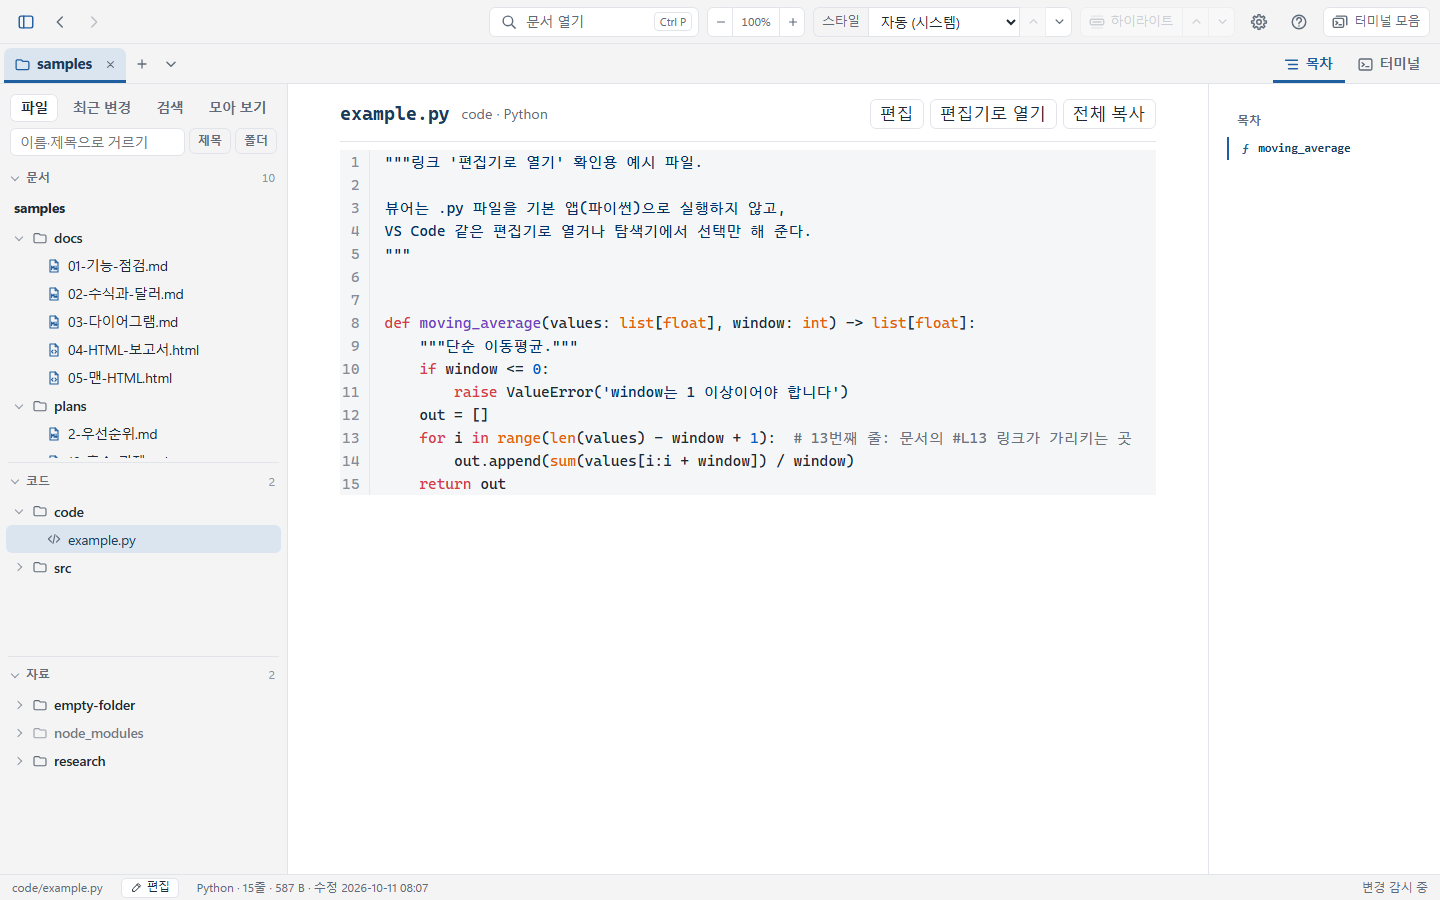
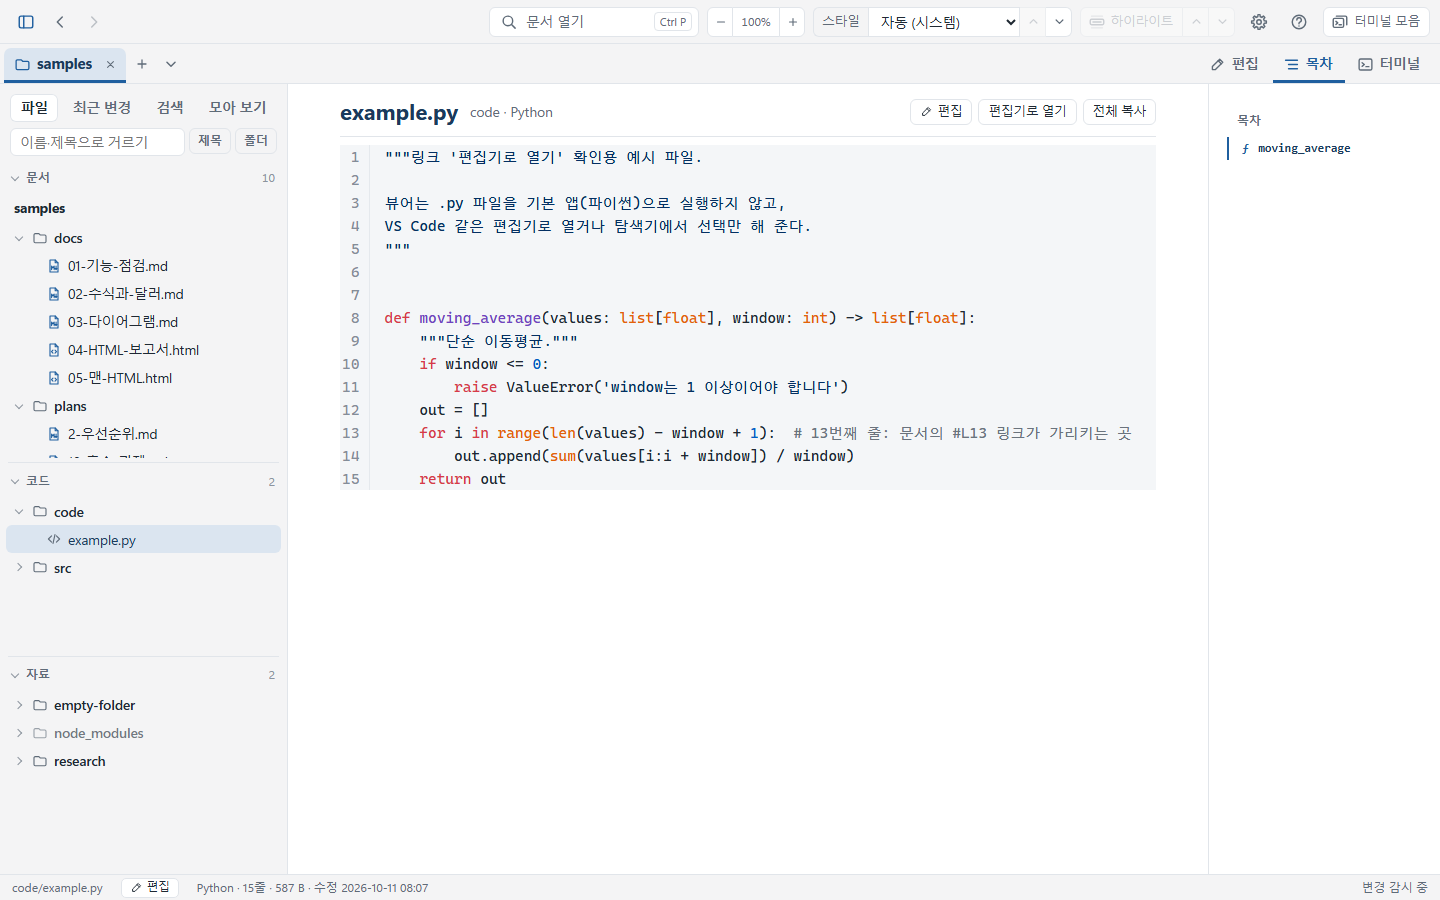
코드 화면 머리줄의 글꼴을 문서 화면에 맞춤 (v0.26.1)
- 파일 이름은 그 스타일의 문서 제목 글꼴(--md-heading-font)로 — 전에는 코드 글꼴
- '편집'·'편집기로 열기'·'전체 복사'와 폴더·언어는 앱 글꼴로 — 본문 글꼴(잡지·논문 등은 명조)을 따르던 것.
  '편집'에 상태줄 '편집'처럼 연필, 문서가 없을 때 안내의 버튼도 앱 글꼴
- README 의 코드 화면 그림 다시 찍기

diff --git a/web/css/app.css b/web/css/app.css
@@ -530,6 +530,12 @@ kbd { font: 11px/1 var(--ui-font); padding: 3px 5px; border: 1px solid var(--ui-
 }
 .st-edit:hover { border-color: var(--ui-accent); color: var(--ui-accent); }
 .st-edit svg { width: 13px; height: 13px; fill: none; stroke: currentColor; stroke-width: 1.5; stroke-linejoin: round; }
+/* 본문 안의 앱 버튼 — 코드 화면 머리줄, 문서가 없을 때의 안내: 본문 글꼴(명조일 수 있다)이 아니라 앱 글꼴로.
+   코드 화면의 '편집'은 상태줄의 '편집'과 같은 모양 (연필, 마우스를 올리면 강조색) */
+.code-view .cv-tools .text-btn, .md-body .doc-missing button { font-family: var(--ui-font); }
+.code-view .cv-tools .text-btn { height: 26px; padding: 0 9px; gap: 4px; font-size: 12.5px; }
+.code-view .cv-edit:hover { border-color: var(--ui-accent); color: var(--ui-accent); }
+.code-view .cv-edit svg { width: 13px; height: 13px; stroke-width: 1.5; }
 
 /* ---- 편집 모드 (editor.js, D54): 칸 위를 덮는 편집 상자 — CodeMirror 5. 색은 문서 스타일(--md-*)에서 ---- */
 .lec-editor { position: absolute; inset: 0; z-index: 6; display: flex; flex-direction: column; background: var(--md-bg, #fff); }

diff --git a/web/themes/base.css b/web/themes/base.css
@@ -53,8 +53,9 @@
   position: sticky; top: 0; z-index: 2; display: flex; align-items: center; flex-wrap: wrap; gap: 4px 12px;
   margin: 0 0 8px; padding: 14px 0 10px; border-bottom: 1px solid var(--md-border); background: var(--md-bg);
 }
-.code-view .cv-title { font-family: var(--md-mono); font-size: calc(17px * var(--md-scale, 1)); font-weight: 700; color: var(--md-heading); }
-.code-view .cv-sub { color: var(--md-muted); font-size: calc(13px * var(--md-scale, 1)); }
+/* 파일 이름은 문서 제목처럼 스타일의 제목 글꼴로, 그 옆 정보는 앱 글꼴로 (본문 글꼴이 명조인 스타일에서도 문서 화면과 같게) */
+.code-view .cv-title { font-family: var(--md-heading-font); font-size: 1.3em; font-weight: 700; line-height: 1.25; letter-spacing: -.01em; color: var(--md-heading); }
+.code-view .cv-sub { font-family: var(--ui-font, sans-serif); color: var(--md-muted); font-size: calc(12.5px * var(--md-scale, 1)); }
 .code-view .cv-tools { margin-left: auto; display: flex; gap: 6px; }
 .code-view .cv-line {
   display: grid; grid-template-columns: calc((var(--cv-digits, 3) + 1.5) * 1ch) minmax(0, 1fr); column-gap: 14px;

diff --git a/web/js/codeview.js b/web/js/codeview.js
@@ -98,7 +98,8 @@ export async function showCode(pane, path, { line, scrollTop } = {}) {
   view.style.setProperty('--cv-digits', String(String(lines.length).length));
   view.innerHTML = `<header class="cv-head"><div class="cv-title">${esc(basename(path))}</div>`
     + `<div class="cv-sub">${dirname(path) ? `${esc(dirname(path))} · ` : ''}${esc(lang.name)}</div>`
-    + `<div class="cv-tools"><button type="button" class="text-btn cv-edit" title="${t('여기서 고치기 — 편집 모드 (Ctrl+E)')}">${t('편집')}</button>`
+    + `<div class="cv-tools"><button type="button" class="text-btn cv-edit" title="${t('여기서 고치기 — 편집 모드 (Ctrl+E)')}">`
+    + `<svg aria-hidden="true"><use href="#i-edit"/></svg>${t('편집')}</button>`
     + `<button type="button" class="text-btn cv-editor" title="${t('편집기로 열기 (코드 목록에서 두 번 누르기)')}">${t('편집기로 열기')}</button>`
     + `<button type="button" class="text-btn cv-copy">${t('전체 복사')}</button></div></header>`
     + lines.map((l, i) => `<div class="cv-line" data-line="${i + 1}"><span class="cv-text">${l}</span></div>`).join('');

diff --git a/tools/ui_smoke.py b/tools/ui_smoke.py
@@ -1201,6 +1201,18 @@ def run(headed: bool) -> None:
             check(by_path and c1['title'] == 'example.py' and c1['lines'] >= 15 and c1['status'].startswith('Python')
                   and 'ƒmoving_average' in c1['toc'] and c1['active'] == 'code/example.py' and not c1['treeActive'] and c1['title2'].startswith('example.py'),
                   f"문서 속 코드 경로(`code/example.py:13`)를 누르면 읽기 화면의 그 줄로 — 줄 번호·언어 색, 오른쪽 목차(함수), '코드' 목록에서 강조 ({c1})")
+            fonts = page.evaluate("""() => {
+              const fam = (el) => el && getComputedStyle(el).fontFamily;
+              const probe = document.createElement('h1');   // 이 스타일의 문서 제목 글꼴
+              probe.style.position = 'absolute';
+              document.querySelector('#lec-view').append(probe);
+              const out = { title: fam(document.querySelector('#lec-view .cv-title')), heading: fam(probe),
+                edit: fam(document.querySelector('#lec-view .cv-edit')), status: fam(document.querySelector('#lec-st-edit')),
+                icon: !!document.querySelector('#lec-view .cv-edit use[href="#i-edit"]') };
+              probe.remove();
+              return out; }""")
+            check(fonts['title'] == fonts['heading'] and fonts['edit'] == fonts['status'] and fonts['icon'],
+                  f"코드 화면의 파일 이름은 문서 제목과 같은 글꼴, '편집' 버튼은 상태줄의 '편집'과 같은 글꼴·연필 ({fonts})")
             page.keyboard.press('Alt+ArrowLeft')
             back_doc = wait_until(page, "document.querySelector('#lec-view h1')?.textContent === '경로 표기 확인'")
             doc_title = page.evaluate('document.title')   # 창 제목: 파일 이름 [문서 제목]

diff --git a/lectern/__init__.py b/lectern/__init__.py
@@ -3,4 +3,4 @@
 이름은 독서대(lectern)에서 왔다. Markdown 과 HTML 문서를 본다 (HTML 은 스크립트 없이 보기만, D27).
 """
 
-__version__ = '0.26.0'
+__version__ = '0.26.1'

diff --git a/CLAUDE.md b/CLAUDE.md
@@ -4,7 +4,7 @@ Lectern(렉턴, 독서대)은 Windows용 로컬 문서 뷰어다. Claude Code·C
 Markdown(`.md`)과 HTML(`.html`) 문서를 본다. HTML은 문서로 보기만 하고 스크립트는 돌리지 않는다 (D27). 문서 형식은 서버가 `scanner.DOC_TYPES`, 화면이 `util.js` 의 `isMd`·`isHtml` 로 정한다 (형식을 더하면 둘 다).
 구성: Python(pywebview 창 + Flask 로컬 서버) + 빌드 단계 없는 순수 JS(ES modules).
 
-현재 버전 0.26.0 (v0.26.0 = 편집 모드의 위치 잇기 — 읽던 곳에서 열고 닫으면 편집하던 곳, 편집하는 동안 목차가 커서의 절을 따라오고 목차·모아 보기·검색에서 고르면 편집기가 그 줄로 (md 는 블록, 코드는 줄, html 은 제목 단위 — D55). v0.25.2 = 창 제목 '파일 이름 [문서 제목]', 탭 막대 오른쪽 끝 [편집] [목차] [터미널] — [편집]은 편집 모드 켜기/끄기. v0.25.1 = 업무용 전체 점검에서 고친 것 — 편집 모드 저장(내용 hash 로 그사이 바뀜 보기, ReplaceFileW 로 파일 속성 유지, 저장이 안 되면 고친 내용을 임시 파일에 남김, 섞인 줄바꿈은 많은 쪽, 읽기 전용은 고치지 않음), 내 스타일이 숨긴 인터넷 주소 막기와 CSP style-src, 탭 닫기·다시 불러오기 전 묻기 등. v0.25.0 = 편집 모드 — 문서·코드를 그 자리에서 CodeMirror 5 로 고쳐 저장 (상태줄 '편집'·Ctrl+E·우클릭 '여기를 편집'), 그사이 다른 곳에서 바뀌면 물음, 저장하지 않은 것은 닫기 전에 물음. v0.24.0 = 내 스타일 — 설정 폴더 styles\*.css 가 스타일 목록 맨 아래 '내 스타일'에, 고치면 바로 반영, AI 용 설명서 web/help/styles.md 와 설정 창의 'Claude Code용 요청 복사'. v0.23.0 = 터미널 자리 — 오른쪽 / 문서 아래, 자동이면 창이 세로로 길 때 아래 (설정 창·터미널 머리줄 버튼). v0.22.0 = 우클릭 메뉴의 복사 항목 옆 터미널 버튼 — 선택한 글·Claude용 위치·경로를 Enter 없이 터미널에, 여러 줄이면 물음. v0.21.0 = 최근 변경·검색·모아 보기에 코드·자료도 — 최근 변경·검색 위의 '문서'·'코드'·'자료' 버튼, 검색 맨 위에 이름이 맞는 파일, 모아 보기의 '파일 종류'(엑셀·PDF·그림·py·ipynb 등 형식별). v0.20.0 = 제외 폴더(dist·build·node_modules 등)를 사이드바 '자료' 목록에 흐린 접힌 폴더로 — 펼칠 때 안을 읽음. v0.19.1 = 사이드바 파일 탭의 묶음 '파일'을 '자료'로 바꾸고 순서를 문서·코드·자료로. v0.19.0 = 문서와 목차 사이 경계를 끌어 목차 폭 조절, 문서 글자 한 단계 크게(툴바 100% = 예전 110%). v0.18.0 = 영어 화면 — 설정 '언어 · Language'(자동=Windows 표시 언어·한국어·English), 한국어 문장을 열쇠로 하는 사전 t(), 영어 사용설명서·설치 프로그램. v0.17.0 = 사용설명서(F1)와 단축키 표 — 설명서는 사이드바·문서 위를 덮는 읽기 화면(web/help/manual.md), 툴바 '?' 버튼·Ctrl+/ 로 단축키 표. v0.16.0 = 빠른 열기(Ctrl+P)·전체 검색에 코드 — 맞는 문서 먼저, 검색은 '문서'·'코드' 버튼으로 찾을 곳 고르기. v0.15.0 = 코드 읽기 화면 — '코드' 목록에서 한 번 누르면 본문에 줄 번호·언어 색으로, 오른쪽 목차는 클래스·함수·구분 주석, 문서 속 코드 경로는 그 줄로. v0.14.0 = 사이드바 파일 탭의 '문서'·'파일'·'코드' 세 묶음 — 묶음마다 접기, 코드만 탐색기처럼 모아 보기. v0.13.2 = 버튼 자리 — 목차·터미널 버튼은 탭 막대 오른쪽 끝, 터미널 모음은 툴바. v0.13.1 = 화면의 이름·설명 점검 — 툴바 '문서 열기', '박스글'·'인터넷 그림'으로 통일 등. v0.13.0 = 사이드바 '모아 보기' 탭 — 프로젝트(또는 폴더)의 표·그림·박스글·다이어그램·코드·수식을 종류마다 문서별로, 폴더 개요 버튼·폴더 우클릭으로도. v0.12.0 = 터미널 모음 — 탭 막대 오른쪽 끝 버튼·`` Ctrl+Shift+` `` 로 열린 프로젝트들의 터미널을 한 화면에 격자로, 셸에서 띄운 프로그램이 Ctrl+C 로 멈추지 않던 것 고침. v0.11.0 = 목차의 제목 아래에 그 절의 표·그림·박스글·다이어그램·코드·수식, 누르면 그 자리로, 종류 버튼으로 보이고 감추기. v0.10.1 = 터미널 색이 문서 스타일을 따름, 설정 창에서 끄면 늘 어둡게. v0.10.0 = 오른쪽 터미널 — 프로젝트 탭마다 PowerShell 하나를 그 폴더에서, 툴바 버튼·`` Ctrl+` ``. v0.9.1 = 프로젝트 탭 강조 — 크고 굵은 글자, 폴더 아이콘, 선택된 탭 바탕색. v0.9.0 = 사이드바 이름 앞 종류 아이콘, 종류별·폴더 보기 고르기('폴더' 버튼). v0.8.0 = 사이드바 '파일' 목록 — 문서 트리 아래 분리선 너머에 문서가 아닌 파일을 탐색기처럼, 두 번 누르면 열기(실행하지 않음). v0.7.1 = 트리는 파일 이름, 마우스를 올리면 문서 제목. v0.7.0 = 프로젝트 탭 — 폴더마다 탭 하나, 탭을 누르면 트리와 문서가 함께 바뀜, 창은 하나(또 실행하면 떠 있는 창에 탭으로). v0.6.0 의 창 나누기는 걷었다. v0.6.0 = math·latex 코드 블록 수식. v0.5.0 = 글자 크기 −·+ 와 장 하이라이트. v0.4.0 = 스타일 24종과 목록 묶는 방식 3가지. v0.3.2 = 전체 점검 후 수정 — 보안 3건 포함. ROADMAP 2·3·4단계 기능: 바뀐 부분 강조, 전체 검색, 설정 창·마지막 위치, HTML 문서, 절대경로, 사이드바 폭, 찾기 개선, 우클릭 2차, 경로 자동 링크, 인쇄, 트리 캐시, html 글자 바탕·앱 UI가 스타일을 따름). 남은 것은 Windows 실기 점검(2-1). 다음 할 일은 `docs/ROADMAP.md` 의 "다음 단계"에서 고른다.
+현재 버전 0.26.1 (v0.26.1 = 코드 화면 머리줄 — 파일 이름은 문서 제목 글꼴, 버튼은 앱 글꼴(상태줄 '편집'과 같게, 명조 스타일에서도). v0.26.0 = 편집 모드의 위치 잇기 — 읽던 곳에서 열고 닫으면 편집하던 곳, 편집하는 동안 목차가 커서의 절을 따라오고 목차·모아 보기·검색에서 고르면 편집기가 그 줄로 (md 는 블록, 코드는 줄, html 은 제목 단위 — D55). v0.25.2 = 창 제목 '파일 이름 [문서 제목]', 탭 막대 오른쪽 끝 [편집] [목차] [터미널] — [편집]은 편집 모드 켜기/끄기. v0.25.1 = 업무용 전체 점검에서 고친 것 — 편집 모드 저장(내용 hash 로 그사이 바뀜 보기, ReplaceFileW 로 파일 속성 유지, 저장이 안 되면 고친 내용을 임시 파일에 남김, 섞인 줄바꿈은 많은 쪽, 읽기 전용은 고치지 않음), 내 스타일이 숨긴 인터넷 주소 막기와 CSP style-src, 탭 닫기·다시 불러오기 전 묻기 등. v0.25.0 = 편집 모드 — 문서·코드를 그 자리에서 CodeMirror 5 로 고쳐 저장 (상태줄 '편집'·Ctrl+E·우클릭 '여기를 편집'), 그사이 다른 곳에서 바뀌면 물음, 저장하지 않은 것은 닫기 전에 물음. v0.24.0 = 내 스타일 — 설정 폴더 styles\*.css 가 스타일 목록 맨 아래 '내 스타일'에, 고치면 바로 반영, AI 용 설명서 web/help/styles.md 와 설정 창의 'Claude Code용 요청 복사'. v0.23.0 = 터미널 자리 — 오른쪽 / 문서 아래, 자동이면 창이 세로로 길 때 아래 (설정 창·터미널 머리줄 버튼). v0.22.0 = 우클릭 메뉴의 복사 항목 옆 터미널 버튼 — 선택한 글·Claude용 위치·경로를 Enter 없이 터미널에, 여러 줄이면 물음. v0.21.0 = 최근 변경·검색·모아 보기에 코드·자료도 — 최근 변경·검색 위의 '문서'·'코드'·'자료' 버튼, 검색 맨 위에 이름이 맞는 파일, 모아 보기의 '파일 종류'(엑셀·PDF·그림·py·ipynb 등 형식별). v0.20.0 = 제외 폴더(dist·build·node_modules 등)를 사이드바 '자료' 목록에 흐린 접힌 폴더로 — 펼칠 때 안을 읽음. v0.19.1 = 사이드바 파일 탭의 묶음 '파일'을 '자료'로 바꾸고 순서를 문서·코드·자료로. v0.19.0 = 문서와 목차 사이 경계를 끌어 목차 폭 조절, 문서 글자 한 단계 크게(툴바 100% = 예전 110%). v0.18.0 = 영어 화면 — 설정 '언어 · Language'(자동=Windows 표시 언어·한국어·English), 한국어 문장을 열쇠로 하는 사전 t(), 영어 사용설명서·설치 프로그램. v0.17.0 = 사용설명서(F1)와 단축키 표 — 설명서는 사이드바·문서 위를 덮는 읽기 화면(web/help/manual.md), 툴바 '?' 버튼·Ctrl+/ 로 단축키 표. v0.16.0 = 빠른 열기(Ctrl+P)·전체 검색에 코드 — 맞는 문서 먼저, 검색은 '문서'·'코드' 버튼으로 찾을 곳 고르기. v0.15.0 = 코드 읽기 화면 — '코드' 목록에서 한 번 누르면 본문에 줄 번호·언어 색으로, 오른쪽 목차는 클래스·함수·구분 주석, 문서 속 코드 경로는 그 줄로. v0.14.0 = 사이드바 파일 탭의 '문서'·'파일'·'코드' 세 묶음 — 묶음마다 접기, 코드만 탐색기처럼 모아 보기. v0.13.2 = 버튼 자리 — 목차·터미널 버튼은 탭 막대 오른쪽 끝, 터미널 모음은 툴바. v0.13.1 = 화면의 이름·설명 점검 — 툴바 '문서 열기', '박스글'·'인터넷 그림'으로 통일 등. v0.13.0 = 사이드바 '모아 보기' 탭 — 프로젝트(또는 폴더)의 표·그림·박스글·다이어그램·코드·수식을 종류마다 문서별로, 폴더 개요 버튼·폴더 우클릭으로도. v0.12.0 = 터미널 모음 — 탭 막대 오른쪽 끝 버튼·`` Ctrl+Shift+` `` 로 열린 프로젝트들의 터미널을 한 화면에 격자로, 셸에서 띄운 프로그램이 Ctrl+C 로 멈추지 않던 것 고침. v0.11.0 = 목차의 제목 아래에 그 절의 표·그림·박스글·다이어그램·코드·수식, 누르면 그 자리로, 종류 버튼으로 보이고 감추기. v0.10.1 = 터미널 색이 문서 스타일을 따름, 설정 창에서 끄면 늘 어둡게. v0.10.0 = 오른쪽 터미널 — 프로젝트 탭마다 PowerShell 하나를 그 폴더에서, 툴바 버튼·`` Ctrl+` ``. v0.9.1 = 프로젝트 탭 강조 — 크고 굵은 글자, 폴더 아이콘, 선택된 탭 바탕색. v0.9.0 = 사이드바 이름 앞 종류 아이콘, 종류별·폴더 보기 고르기('폴더' 버튼). v0.8.0 = 사이드바 '파일' 목록 — 문서 트리 아래 분리선 너머에 문서가 아닌 파일을 탐색기처럼, 두 번 누르면 열기(실행하지 않음). v0.7.1 = 트리는 파일 이름, 마우스를 올리면 문서 제목. v0.7.0 = 프로젝트 탭 — 폴더마다 탭 하나, 탭을 누르면 트리와 문서가 함께 바뀜, 창은 하나(또 실행하면 떠 있는 창에 탭으로). v0.6.0 의 창 나누기는 걷었다. v0.6.0 = math·latex 코드 블록 수식. v0.5.0 = 글자 크기 −·+ 와 장 하이라이트. v0.4.0 = 스타일 24종과 목록 묶는 방식 3가지. v0.3.2 = 전체 점검 후 수정 — 보안 3건 포함. ROADMAP 2·3·4단계 기능: 바뀐 부분 강조, 전체 검색, 설정 창·마지막 위치, HTML 문서, 절대경로, 사이드바 폭, 찾기 개선, 우클릭 2차, 경로 자동 링크, 인쇄, 트리 캐시, html 글자 바탕·앱 UI가 스타일을 따름). 남은 것은 Windows 실기 점검(2-1). 다음 할 일은 `docs/ROADMAP.md` 의 "다음 단계"에서 고른다.
 
 ## 반드시 지킬 원칙
 

diff --git a/docs/DECISIONS.md b/docs/DECISIONS.md
@@ -351,7 +351,7 @@
 
 - **결정 (사용자 요청, 2026-10-23)**: '코드에서 코드는 선택하면 문서와 같이 읽기 모드로 화면에 보여 주고, 오른쪽에 문서처럼 목차도' (v0.15.0). 'ROADMAP 하지 않기로 한 것'의 '뷰어 안 코드 보기 화면'(D11)을 사용자가 다시 요청했다. 사용자가 추천대로 고른 것: 코드 목록에서 한 번 누르면 읽기 화면·두 번 누르면 편집기, 목차는 함수·클래스와 구분 주석, 문서 속 코드 경로·링크는 읽기 화면의 그 줄로.
 - **화면 종류 `code`**: `nav.js` 의 세 번째 화면 (`doc`·`overview`·`code`) — 뒤로/앞으로·스크롤 기억·자동 새로고침·찾기(Ctrl+F)가 문서처럼 된다. 마지막 위치 기록(position.js)은 문서만이다 (다음 실행에 코드를 다시 열지 않는다).
-- **보이는 모양**: 머리줄(파일 이름·폴더·언어, '편집기로 열기'·'전체 복사'), 줄마다 줄 번호, 언어 색은 이미 들여온 highlight.js 로(새 라이브러리 없음, 없는 언어는 색 없이), 긴 줄은 접어서(가로 스크롤 대신 — 읽기 화면). 색·바탕은 문서 스타일의 코드 색을 따른다. 상태줄에 언어·줄 수·크기·수정 시각. 4MB 가 넘거나 글자가 아닌 파일은 보이지 않고 편집기로 열라고 알린다 (1MB 가 넘으면 색 없이).
+- **보이는 모양**: 머리줄(파일 이름·폴더·언어, '편집기로 열기'·'전체 복사' — 파일 이름은 문서 제목과 같은 스타일의 제목 글꼴, 버튼은 앱 글꼴로 상태줄의 '편집'과 같게: v0.26.1 사용자 요청, 본문 글꼴이 명조인 스타일에서 버튼이 명조로 보였다), 줄마다 줄 번호, 언어 색은 이미 들여온 highlight.js 로(새 라이브러리 없음, 없는 언어는 색 없이), 긴 줄은 접어서(가로 스크롤 대신 — 읽기 화면). 색·바탕은 문서 스타일의 코드 색을 따른다. 상태줄에 언어·줄 수·크기·수정 시각. 4MB 가 넘거나 글자가 아닌 파일은 보이지 않고 편집기로 열라고 알린다 (1MB 가 넘으면 색 없이).
 - **줄이 화면의 최상위 블록**: 줄(`.cv-line`)을 `#lec-view` 의 바로 아래에 두어, 자동 새로고침 때 바뀐 줄 강조(diffmark)·'바뀐 곳' 버튼과 문서 안 찾기가 문서와 같은 코드로 된다.
 - **자동 새로고침**: 서버는 코드 같은 문서 외 파일의 내용 수정을 변경 기록에 남기지 않는다 (D36 — 소스를 고칠 때마다 문서 트리를 다시 읽지 않게). 그래서 코드 화면은 보고 있는 동안 2초마다 그 파일의 수정 시각·크기(HEAD `/doc/…`)를 보고, 바뀌었으면 다시 그린다. 서버는 그대로다.
 - **목차** (`outline.js`): 구문 분석기 없이 언어마다 줄 단위 규칙 — Python·JS/TS·Java/C#/Kotlin/Swift/Dart·Go·Rust·C/C++·Ruby·PHP·Lua·Perl·R·셸·PowerShell(#region)·배치(:이름표)·SQL(CREATE)·CSS(선택자·@media)·HTML(제목)·JSON/YAML(위 두 단계 키)·TOML/INI(섹션)·.env(키). 들여쓰기로 단계를 매기고(메서드는 클래스 아래), `# ---- 그리기 ----` 같은 구분 주석은 맨 위 단계의 '§'. 종류 표시는 § C T ƒ · # H :. 지금 읽는 위치를 제목처럼 표시하고, 누르면 그 줄을 위에 두고 잠깐 테두리. 여러 줄 문자열·주석 안을 잘못 잡을 수 있다 (목차일 뿐이다).

diff --git a/docs/ROADMAP.md b/docs/ROADMAP.md
@@ -76,6 +76,12 @@
 - [x] 툴바·사이드바·목차·상태줄·메뉴 색이 문서 스타일을 따름 — 12종 모두 (D28)
 - [x] 테스트: pytest 80개, `ui_smoke.py` 79항목 (스타일마다 UI 글자 대비 4.5:1, html 글자 대비)
 
+### v0.26.1 — 코드 화면 머리줄의 글꼴 (완료)
+사용자 요청 (2026-10-24): 코드의 파일 제목, 편집 버튼 스타일을 문서의 제목, 편집 스타일에 맞춰 — 고딕/명조 차이.
+- [x] 코드 화면의 파일 이름은 그 스타일의 문서 제목 글꼴(`--md-heading-font`)로 — 전에는 코드 글꼴
+- [x] 머리줄의 '편집'·'편집기로 열기'·'전체 복사'와 폴더·언어는 앱 글꼴로 — 본문 글꼴(잡지·논문 등은 명조)을 따르던 것. '편집'에 상태줄 '편집'처럼 연필
+- [x] 테스트: pytest 191개, `ui_smoke.py` 206항목
+
 ### v0.26.0 — 편집 모드의 위치 잇기 (완료)
 사용자 요청 (2026-10-24): 문서 읽는 위치, 편집 위치, 목차 선택을 연동 (D55).
 - [x] 편집 모드를 열면 읽던 곳의 원문이 같은 높이에, 닫으면 읽는 화면이 편집하던 곳에 (접힌 절은 펴고 장 하이라이트도 그 장으로)
